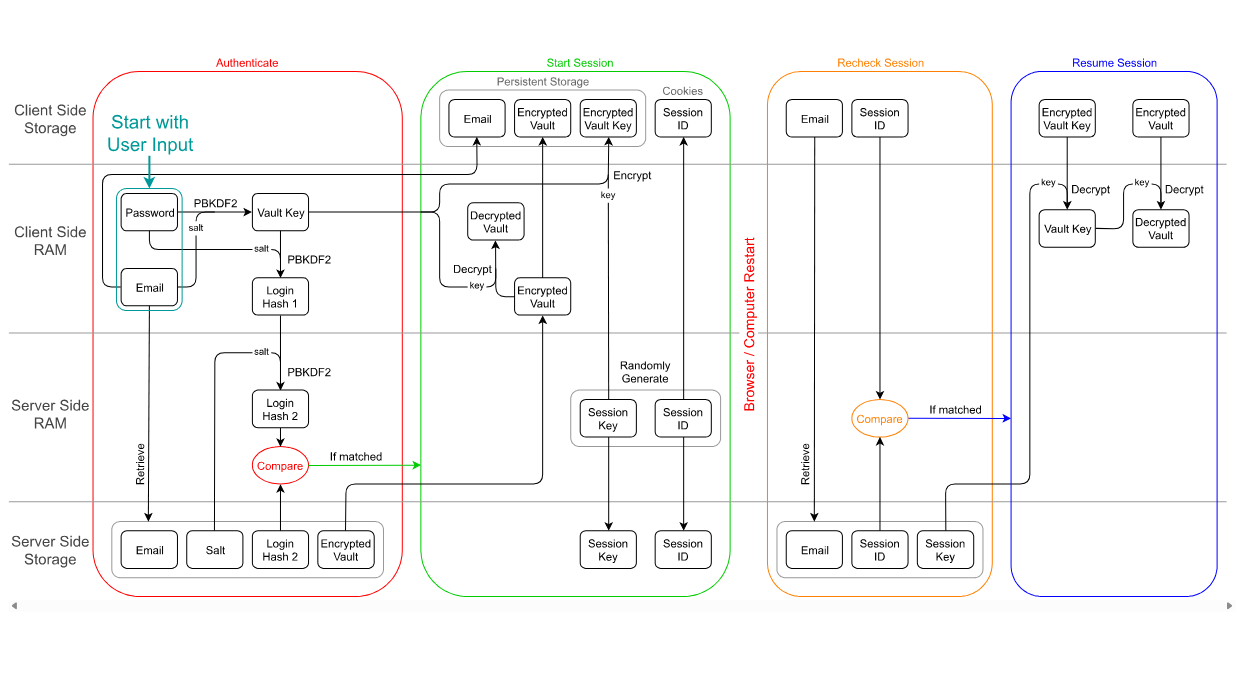
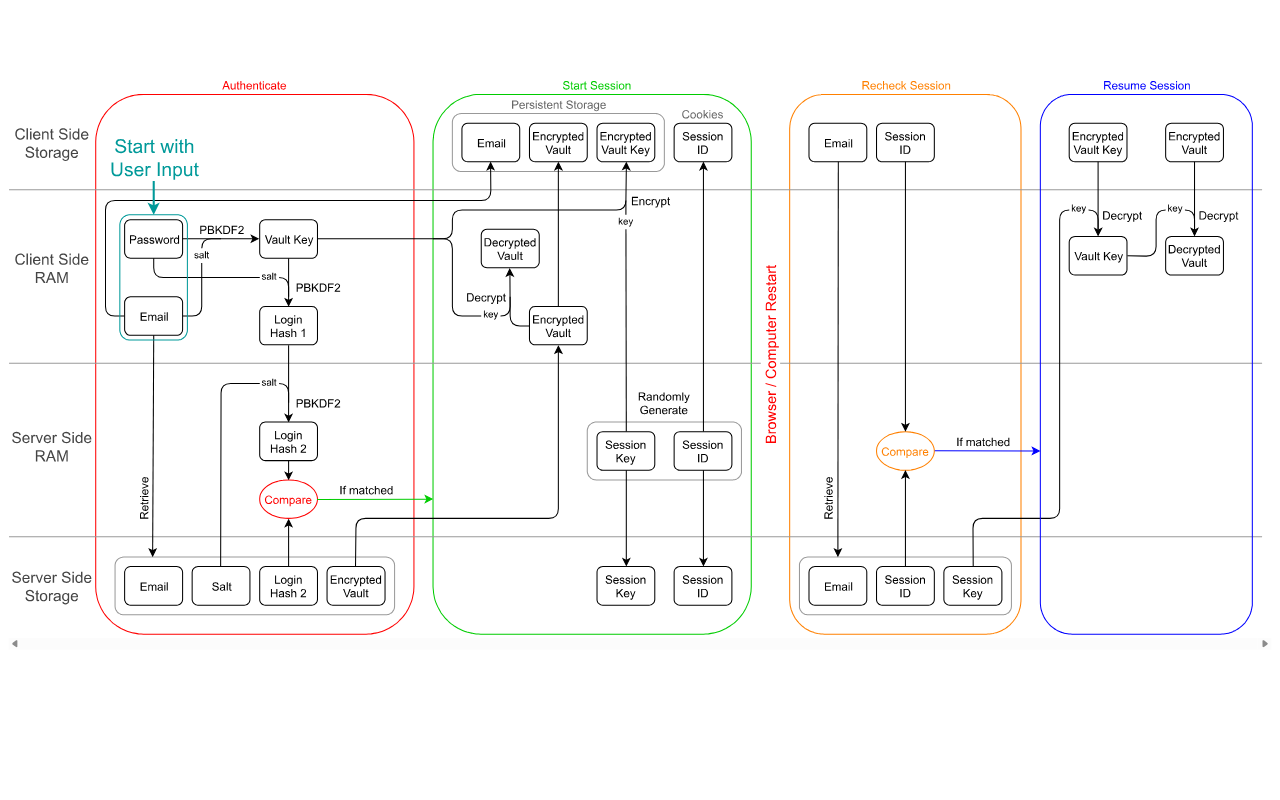
added image carousel

diff --git a/src/routes/projects/m2m.tsx b/src/routes/projects/m2m.tsx
@@ -3,6 +3,7 @@ import useScrollToSection from "@/hooks/useScrollToSection";
 import SectionNavigator from "@/components/SectionNavigator";
 import type { Section } from "@/components/SectionNavigator";
 import { FaGithub, FaYoutube } from "react-icons/fa";
+import ImageCarousel from "@/components/ImageCarousel";
 
 export const Route = createFileRoute("/projects/m2m")({
   component: RouteComponent,
@@ -86,22 +87,24 @@ function RouteComponent() {
             </p>
           </div>
           <div className="project-section">
-            <p className="project-sub-subheading" id="video-demonstration">
-              Video Demonstration
+            <p className="project-sub-subheading" id="project-photos">
+              Project Photos
             </p>
             <div className="project-pics">
-              {/* <iframe
-                className="w-auto h-auto md:w-[48rem] md:h-[32rem]"
-                src="https://www.youtube.com/embed/FfB2ws_rVOg"
-                title="YouTube video player"
-                allow="accelerometer; autoplay; clipboard-write; encrypted-media; gyroscope; picture-in-picture; web-share"
-                referrerPolicy="strict-origin-when-cross-origin"
-                allowFullScreen={true}
+              <ImageCarousel
+                images={[
+                  "/images/M2M/5.png",
+                  "/images/M2M/1.png",
+                  "/images/M2M/2.png",
+                  "/images/M2M/3.png",
+                  "/images/M2M/4.png",
+                ]}
+              />
+              {/* <img
+                className="block max-w-full h-auto mx-auto rounded-xl shadow-lg"
+                src="/images/PassWin/authentication_pipeline.png"
               /> */}
             </div>
-            <p className="project-sub-subheading-paragraph text-center">
-              Check out this quick 1-minute video that showcases the solution.
-            </p>
           </div>
         </div>
         <div className="project-header" id="technical-features">

diff --git a/src/components/ImageCarousel.tsx b/src/components/ImageCarousel.tsx
@@ -1,0 +1,38 @@
+import React, { useState } from "react";
+import { FaChevronLeft, FaChevronRight } from "react-icons/fa6";
+
+type ImageCarouselProps = {
+  images: string[];
+};
+
+export default function ImageCarousel({ images }: ImageCarouselProps) {
+  const [currentIndex, setCurrentIndex] = useState(0);
+
+  const prevImage = () => {
+    setCurrentIndex((i) => (i - 1 + images.length) % images.length);
+  };
+  const nextImage = () => {
+    setCurrentIndex((i) => (i + 1) % images.length);
+  };
+  return (
+    <div className="relative w-full mx-auto">
+      <img
+        className="project-pic"
+        src={images[currentIndex]}
+        alt={`Slide ${currentIndex + 1}`}
+      />
+      <button
+        onClick={prevImage}
+        className="absolute top-1/2 left-2 -translate-y-1/2 bg-white/80 hover:bg-white rounded-full p-2 shadow-md"
+      >
+        <FaChevronLeft size={24} />
+      </button>
+      <button
+        onClick={nextImage}
+        className="absolute top-1/2 right-2 -translate-y-1/2 bg-white/80 hover:bg-white rounded-full p-2 shadow-md"
+      >
+        <FaChevronRight size={24} />
+      </button>
+    </div>
+  );
+}

diff --git a/src/routes/projects/passwin.tsx b/src/routes/projects/passwin.tsx
@@ -177,8 +177,8 @@ function RouteComponent() {
           </div>
           <div className="project-pics">
             <img
-              className="block max-w-full h-auto mx-auto"
-              src="/images/PasswordManager/authentication_pipeline.png"
+              className="project-pic"
+              src="/images/PassWin/authentication_pipeline.png"
             />
           </div>
           <div className="project-section">

diff --git a/src/index.css b/src/index.css
@@ -90,6 +90,10 @@
   @apply flex justify-center mb-3;
 }
 
+.project-pic {
+  @apply block max-w-full h-auto mx-auto rounded-xl shadow-lg;
+}
+
 .project-unordered-list {
   @apply list-disc ml-2 lg:ml-5 text-p;
 }
